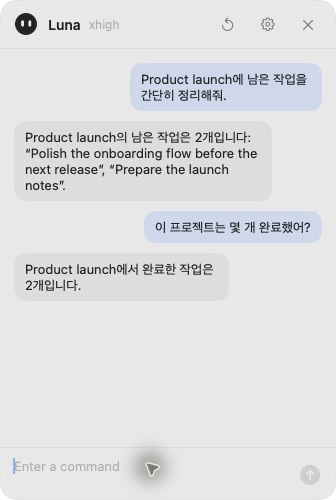
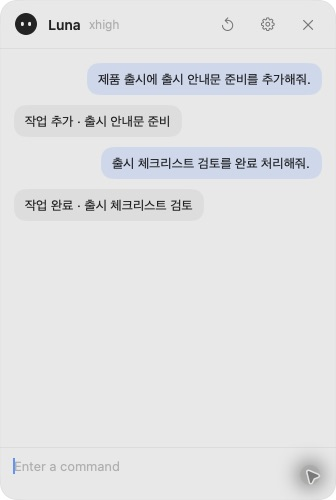
docs: localize Korean README screenshot content

diff --git a/docs/reports/260916-2124-01-korean-readme-screenshots.md b/docs/reports/260916-2124-01-korean-readme-screenshots.md
@@ -1,0 +1,47 @@
+# 작업 기록 - 한국어 README 전용 스크린샷
+
+- 일시: 2026-09-16 21:24 (KST)
+- 작성자: Austin 요청
+- 에이전트: Codex
+- 작업 유형: 문서화
+
+## 요약
+
+- 한국어 README가 영어 프로젝트·Task가 들어간 이미지를 재사용하지 않도록 한국어 샘플로 다시 촬영했습니다.
+- 기존 문서·시각 기준을 유지하고 모든 앱 화면 참조를 `-ko.jpg`로 분리했습니다. 영문 README와 영문 이미지는 변경하지 않았습니다.
+
+## 변경 범위
+
+- 샘플 프로젝트: 제품 출시, 디자인 스튜디오, 일상.
+- 한국어 Task 목록·추가 결과, 완료 목록 전체·프로젝트 필터, 고정·크기 조절 창을 새로 촬영했습니다.
+- 실제 Codex에 한국어로 출시 안내문 추가와 체크리스트 완료를 요청하고 반영된 대화를 촬영했습니다.
+- 한국어 답변이 선택된 Settings를 촬영했습니다.
+- 본문의 프로젝트명, 이미지 대체 텍스트, 사용 예시도 새 화면에 맞췄습니다.
+- 앱은 현재 고정 UI가 영어이므로 Settings·필터·날짜·입력 안내는 번역하거나 합성하지 않았습니다. 이 경계를 상단 캡션에 명시했습니다.
+
+## 주요 변경 파일
+
+- `README.ko.md`
+- `docs/01-folder-architecture.md`
+- `docs/assets/chat-ko.jpg`, `docs/assets/settings-ko.jpg`
+- `docs/assets/workspace-ko.jpg`, `docs/assets/window-wide-ko.jpg`
+- `docs/assets/task-collapsed-ko.jpg`, `docs/assets/task-entry-ko.jpg`
+- `docs/assets/completed-all-ko.jpg`, `docs/assets/completed-project-ko.jpg`
+
+## 리스크/이슈
+
+- 촬영 앱의 번들 ID, UserDefaults, Task 저장소를 운영 앱과 분리했습니다. 데이터 생성·변경은 공용 CLI 또는 실제 Chat을 통해 수행했습니다.
+- Task 추가 결과 화면은 CLI로 준비했으며 키보드 입력 과정을 촬영했다고 설명하지 않습니다.
+- 국문 README의 이미지 13개 중 앱 화면 참조 12개가 모두 한국어 전용 파일인지 확인했습니다. 누락된 파일은 없습니다.
+- GitHub Markdown API 렌더링의 상단·Chat 배치를 실제 브라우저에서 확인했습니다. 이미지 로드 실패와 가로 넘침이 없으며 390px 화면에서도 이미지가 넘치지 않습니다.
+- `git diff --check` 통과. 소스 변경이 없어 빌드·런타임 테스트는 재실행하지 않았습니다.
+- 실제 사용자 데이터·앱 설정과 GitHub 공개 범위는 변경하지 않았습니다.
+
+## 다음 작업
+
+- 이번 문서 요청에 따른 추가 작업은 없습니다. 앱 고정 UI의 다국어 지원은 이번 범위에 포함하지 않았습니다.
+
+## 참고
+
+- 관련 문서: `docs/01-folder-architecture.md`, `docs/02-specs.md`, `docs/03-product-plan.md`
+- https://github.com/EunHyeokJung/FloatTask/blob/main/README.ko.md

diff --git a/docs/01-folder-architecture.md b/docs/01-folder-architecture.md
@@ -68,7 +68,7 @@ FloatTask
 ## 책임과 의존 방향
 
 - `README.md`와 `README.ko.md`: 영어·한국어 제품 소개와 설치·사용·개발 안내. 서로 같은 기능 범위를 안내합니다.
-- `docs/assets`: 격리된 샘플 데이터로 촬영한 기능별 README 화면. 메인·채팅·완료·Settings 등 실제 네이티브 창을 각각 촬영하고 README에서 나란히 배치해 보조 패널 관계를 보여줍니다. 채팅은 실제 요청·응답을 사용하며 실제 사용자 데이터나 생성한 UI 목업은 포함하지 않습니다.
+- `docs/assets`: 격리된 샘플 데이터로 촬영한 기능별 README 화면. 메인·채팅·완료·Settings 등 실제 네이티브 창을 각각 촬영하고 README에서 나란히 배치해 보조 패널 관계를 보여줍니다. 한국어 README는 `-ko` 이미지의 한국어 프로젝트·Task·대화를 사용하며 앱의 영어 고정 UI는 유지합니다. 채팅은 실제 요청·응답을 사용하며 실제 사용자 데이터나 생성한 UI 목업은 포함하지 않습니다.
 - `FloatTaskCore`: 도메인 모델, 원자적 JSON 저장, Codex 작업 명령 검증, Google Tasks REST 어댑터
 - `Sources/FloatTaskCore/ChatReplyLanguage.swift`: 봇 답변 언어와 언어별 결과 문구. UI 설정 저장은 앱에서 담당합니다.
 - `FloatTask`: AppKit 메인/채팅 창 제어와 SwiftUI 인터페이스
